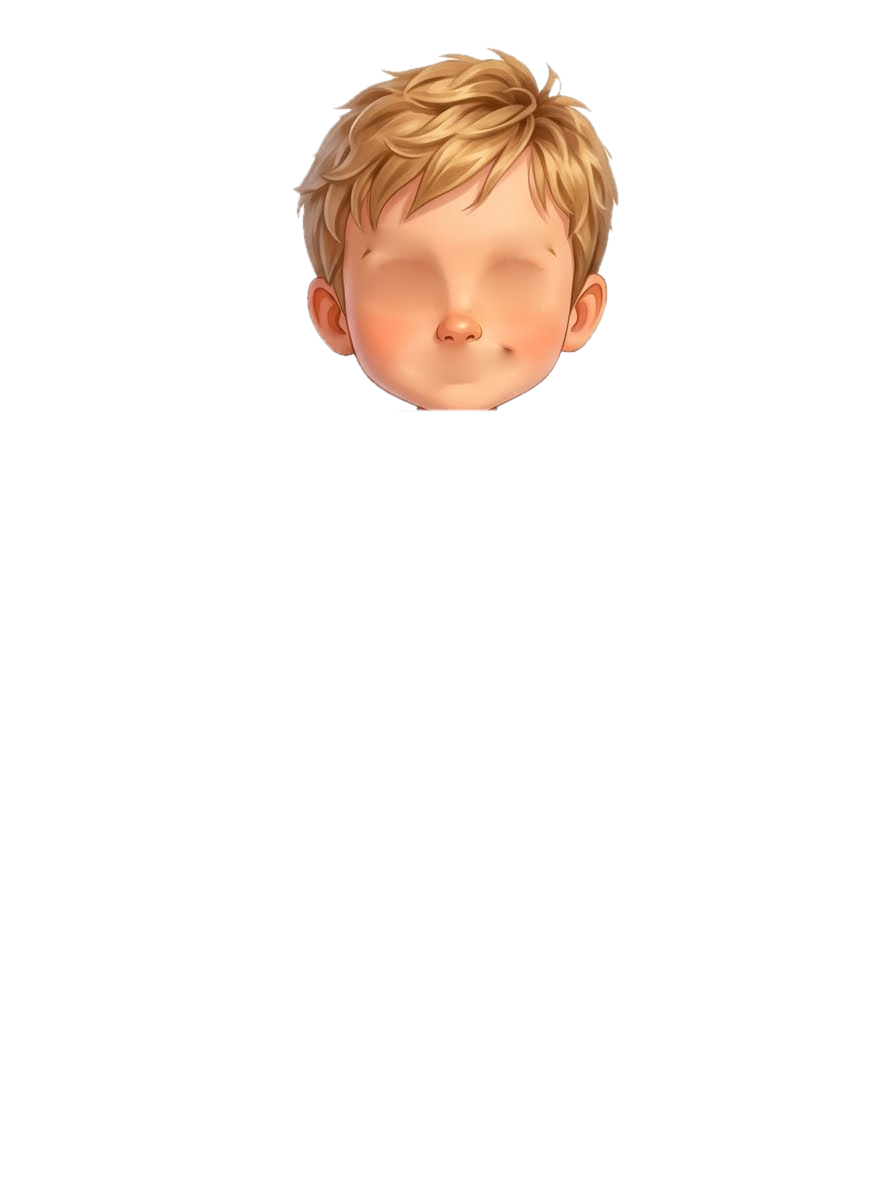
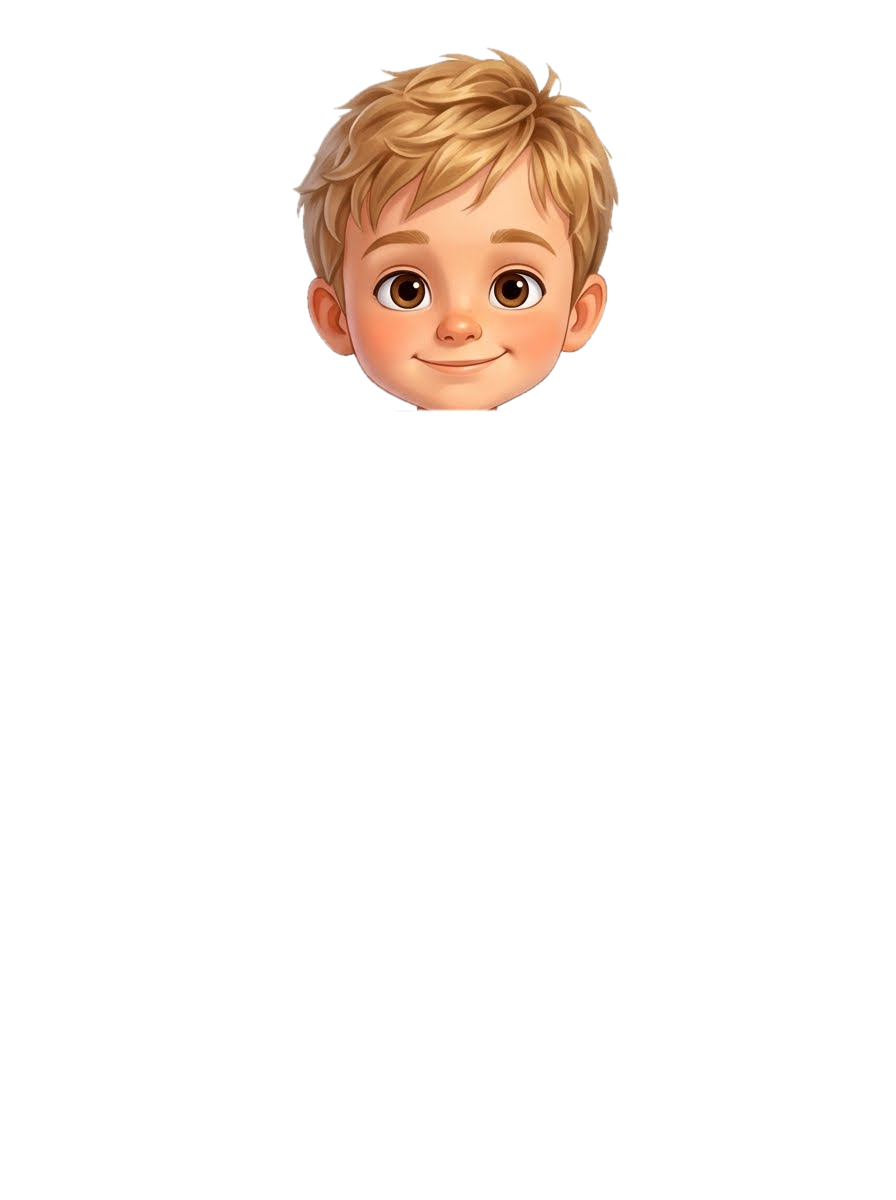
Caras: el dibujo original de E y R, sin redibujar
Chiño quiere en los vídeos exactamente las caras de sus ilustraciones.
head.png conserva la cara tal cual; prepare_characters.py saca del propio
dibujo dos capas pequeñas: blink.png (ojos cerrados) y jaw.png (lo que hay
bajo el labio, que baja al hablar sobre el interior de la boca). Fuera los
ojos, cejas y boca vectoriales. El cuerpo empieza 5 px por debajo de la
cabeza para que no se vea la costura del cuello al moverla.

Claude-Session: https://claude.ai/code/session_0193hWfzVzPtkdWeitjtRJrp

Changed region(s): [[0.4062, 0.185, 0.625, 0.3083]]

diff --git a/src/puppets.js b/src/puppets.js
@@ -11,8 +11,8 @@
   const f1 = v => (+v).toFixed(1);
 
   // ---------- expressions (docs/biblia-personajes.md §4) ----------
-  // brows: [left, right] { up: px raised, tilt: inner end up (+) / down (-) }, lids: upper lid cover 0..1,
-  // mouth: { w: width factor, curve: smile (+) / frown (-), open 0..1, round 0..1 (an "o"), asym: one corner up }
+  // The scripts' vocabulary of faces. The faces themselves are the drawing, so of these values only mouth.open is
+  // used (a surprised face keeps the mouth a little open); the rest is kept for when the drawn faces get variants.
   const B = (up = 0, tilt = 0) => ({ up, tilt });
   const EXPR = {
     neutral: { brows: [B(), B()], lids: [0.12, 0.12], mouth: { w: 0.62, curve: 0.35 } },
@@ -34,94 +34,6 @@
   };
   const lerp = (a, b, k) => a + (b - a) * k;
 
-  function eyes(rig, st, id) {
-    const ex = EXPR[st.face] || EXPR.neutral;
-    const look = st.look || ex.look || [0, 0];
-    const blink = st.blink || 0;
-    let out = '';
-    rig.eyes.forEach((e, i) => {
-      const { x, y, w, h } = e;
-      const top = `M ${f1(x - w / 2)} ${f1(y + h * 0.06)} C ${f1(x - w * 0.36)} ${f1(y - h * 0.66)} ${f1(x + w * 0.36)} ${f1(y - h * 0.66)} ${f1(x + w / 2)} ${f1(y + h * 0.02)}`;
-      const shape = `${top} C ${f1(x + w * 0.34)} ${f1(y + h * 0.62)} ${f1(x - w * 0.34)} ${f1(y + h * 0.62)} ${f1(x - w / 2)} ${f1(y + h * 0.06)} Z`;
-      const ir = h * 0.5, pr = ir * 0.5 * (st.pupil ?? ex.pupil ?? 1);
-      const ix = x + look[0] * w * 0.2, iy = y + h * 0.05 + look[1] * h * 0.14;
-      const lid = Math.min(1, Math.max(ex.lids[i] ?? 0, st.lid ?? 0, blink));
-      const ly = y - h * 0.58 + lid * h * 1.18;           // lower edge of the upper lid
-      const cid = `${id}eye${i}`;
-      out += `<clipPath id="${cid}"><path d="${shape}"/></clipPath>
-        <path d="${shape}" fill="#FFFDF8"/>
-        <g clip-path="url(#${cid})">
-          <ellipse cx="${f1(x)}" cy="${f1(y - h * 0.34)}" rx="${f1(w * 0.6)}" ry="${f1(h * 0.3)}" fill="#E9D6CC" opacity="0.7"/>
-          <circle cx="${f1(ix)}" cy="${f1(iy)}" r="${f1(ir)}" fill="url(#${id}iris)"/>
-          <circle cx="${f1(ix)}" cy="${f1(iy)}" r="${f1(ir)}" fill="none" stroke="${rig.iris[0]}" stroke-width="2.2"/>
-          <circle cx="${f1(ix)}" cy="${f1(iy)}" r="${f1(pr)}" fill="#120A06"/>
-          <circle cx="${f1(ix + ir * 0.32)}" cy="${f1(iy - ir * 0.36)}" r="${f1(ir * 0.27)}" fill="#fff"/>
-          <circle cx="${f1(ix - ir * 0.34)}" cy="${f1(iy + ir * 0.34)}" r="${f1(ir * 0.11)}" fill="#fff" opacity="0.85"/>
-          ${lid > 0.01 ? `<path d="M ${f1(x - w)} ${f1(y - h * 1.2)} H ${f1(x + w)} V ${f1(ly)} Q ${f1(x)} ${f1(ly + h * 0.22 * (1 - lid * 0.6))} ${f1(x - w)} ${f1(ly)} Z" fill="${rig.lid || rig.skin}"/>` : ''}
-        </g>`;
-      // lash line: along the lid edge, or the top of the eye when the lid is up
-      // the ends stay on the eye corners, so a closed eye reads as a soft arc, not a bar
-      const le = Math.min(Math.max(ly, y - h * 0.3), y + h * 0.05);
-      const lm = Math.min(Math.max(ly, y - h * 0.4) + h * 0.22 * (1 - lid * 0.6), y + h * 0.3);
-      const lash = lid > 0.16
-        ? `M ${f1(x - w / 2 - 2)} ${f1(le)} Q ${f1(x)} ${f1(2 * lm - le)} ${f1(x + w / 2 + 3)} ${f1(le)}`
-        : top;
-      const flick = i === 0 ? `M ${f1(x - w / 2)} ${f1(y + h * 0.02)} l -7 -6` : `M ${f1(x + w / 2)} ${f1(y)} l 7 -6`;
-      out += `<path d="${lash}" fill="none" stroke="#2A1810" stroke-width="5" stroke-linecap="round"/>
-        <path d="${flick}" fill="none" stroke="#2A1810" stroke-width="4" stroke-linecap="round"/>
-        <path d="M ${f1(x - w * 0.4)} ${f1(y + h * 0.34)} Q ${f1(x)} ${f1(y + h * 0.58)} ${f1(x + w * 0.4)} ${f1(y + h * 0.34)}" fill="none" stroke="#B07A5E" stroke-width="1.8" opacity="0.6"/>`;
-    });
-    return out;
-  }
-
-  function brows(rig, st) {
-    const ex = EXPR[st.face] || EXPR.neutral;
-    return rig.brows.map((b, i) => {
-      const d = i === 0 ? 1 : -1;                 // left brow: inner end to the right
-      const p = ex.brows[i] || B();
-      const up = p.up + (st.browUp ?? 0), t = p.tilt;
-      const ix = b.x + d * b.w / 2, ox = b.x - d * b.w / 2;
-      const iy = b.y - up - t * 1.4, oy = b.y - up + t * 0.6 + 3;
-      const my = b.y - up - 8;
-      const th = 10;
-      return `<path d="M ${f1(ox)} ${f1(oy)} Q ${f1(b.x)} ${f1(my - th / 2)} ${f1(ix)} ${f1(iy)} Q ${f1(b.x)} ${f1(my + th)} ${f1(ox)} ${f1(oy)} Z" fill="${rig.brow}" stroke="${rig.brow}" stroke-width="3.5" stroke-linejoin="round"/>`;
-    }).join('');
-  }
-
-  function mouth(rig, st, id) {
-    const ex = EXPR[st.face] || EXPR.neutral;
-    const m = Object.assign({ w: 0.6, curve: 0.3, open: 0, round: 0, asym: 0 }, ex.mouth);
-    const talk = st.talk || 0;
-    // talking opens the mouth from its resting shape
-    const open = Math.min(1, m.open + talk * (0.55 - m.open * 0.3));
-    const W = rig.mouth.w, cx = rig.mouth.x, cy = rig.mouth.y;
-    const round = Math.max(m.round, talk * 0.25);
-    const hw = W / 2 * lerp(m.w, 0.34, round * 0.8) * (1 - talk * 0.08);
-    const cyL = -m.curve * W * 0.1 - m.asym * W * 0.06, cyR = -m.curve * W * 0.1 + m.asym * W * 0.06;
-    const midClosed = m.curve * W * 0.1;
-    if (open < 0.06) {
-      return `<path d="M ${f1(cx - hw)} ${f1(cy + cyL)} Q ${f1(cx)} ${f1(cy + midClosed * 1.4)} ${f1(cx + hw)} ${f1(cy + cyR)}" fill="none" stroke="${rig.lip}" stroke-width="5.5" stroke-linecap="round"/>
-        ${m.curve > 0.5 ? `<path d="M ${f1(cx - hw - 5)} ${f1(cy + cyL - 3)} q 4 3 6 8 M ${f1(cx + hw + 5)} ${f1(cy + cyR - 3)} q -4 3 -6 8" fill="none" stroke="${rig.lip}" stroke-width="2.6" stroke-linecap="round" opacity="0.6"/>` : ''}`;
-    }
-    if (round > 0.5) {
-      // an "o": an oval that opens with the voice
-      const rx = W * (0.11 + open * 0.05) * (m.w / 0.4), ry = W * (0.1 + open * 0.13);
-      return `<ellipse cx="${f1(cx)}" cy="${f1(cy + ry * 0.35)}" rx="${f1(rx)}" ry="${f1(ry)}" fill="#5B1E18" stroke="${rig.lip}" stroke-width="3.6"/>
-        <ellipse cx="${f1(cx)}" cy="${f1(cy + ry * 1.0)}" rx="${f1(rx * 0.6)}" ry="${f1(ry * 0.35)}" fill="#E0736E"/>`;
-    }
-    const topY = midClosed * 0.4 - open * W * 0.04 - round * open * W * 0.12;
-    const botY = midClosed * 1.3 + open * W * (0.3 + round * 0.12);
-    const shape = `M ${f1(cx - hw)} ${f1(cy + cyL)} Q ${f1(cx)} ${f1(cy + topY * 2 - (cyL + cyR) / 2)} ${f1(cx + hw)} ${f1(cy + cyR)} Q ${f1(cx)} ${f1(cy + botY * 2 - (cyL + cyR) / 2)} ${f1(cx - hw)} ${f1(cy + cyL)} Z`;
-    const cid = `${id}mouth`;
-    return `<clipPath id="${cid}"><path d="${shape}"/></clipPath>
-      <path d="${shape}" fill="#5B1E18"/>
-      <g clip-path="url(#${cid})">
-        <rect x="${f1(cx - hw)}" y="${f1(cy + Math.min(cyL, cyR) - W * 0.2)}" width="${f1(hw * 2)}" height="${f1(W * 0.2 + (topY > 0 ? topY : 0) + W * 0.08 * Math.min(1, open * 2) * (1 - round))}" fill="#FFFFFF"/>
-        <ellipse cx="${f1(cx)}" cy="${f1(cy + botY)}" rx="${f1(hw * 0.7)}" ry="${f1(W * 0.12)}" fill="#E0736E"/>
-      </g>
-      <path d="${shape}" fill="none" stroke="${rig.lip}" stroke-width="3.6" stroke-linejoin="round"/>`;
-  }
-
   // emotes over the head: ? ! ... bulb, drop, hearts, swirl, sparkle
   function emote(kind, k, x, y) {
     if (!kind || k <= 0) return '';
@@ -140,6 +52,22 @@
   }
 
   // a kid: st = { who: 'e'|'r', x, y (floor), s, face, look, blink, talk, headR, headX, headY, lean, squash, flip, emote, emoteK, o }
+  // The face is Chiño's drawing, untouched (docs/biblia-personajes.md). Only two things move, both made from the
+  // drawing itself by tools/prepare_characters.py: the eyes close (blink.png) and, while speaking, the part below
+  // the lip line slides down a few pixels (jaw.png) over the inside of the mouth.
+  function face(rig, img, st) {
+    const ex = EXPR[st.face] || EXPR.neutral;
+    const j = rig.jaw, talk = Math.max(0, Math.min(1, Math.max(st.talk || 0, (ex.mouth?.open || 0) * 0.6)));
+    const d = talk * j.d;
+    const mouth = d > 0.4
+      ? `<path d="M ${f1(j.ox - j.ow)} ${j.y - 1} Q ${j.ox} ${f1(j.y - 2)} ${f1(j.ox + j.ow)} ${j.y - 1} Q ${j.ox} ${f1(j.y + d * 2.2)} ${f1(j.ox - j.ow)} ${j.y - 1} Z" fill="${j.inside}"/>
+         <ellipse cx="${j.ox}" cy="${f1(j.y + d * 0.9)}" rx="${f1(j.ow * 0.45)}" ry="${f1(d * 0.35)}" fill="#B4504A" opacity="0.8"/>
+         <image href="${img.jaw}" x="0" y="${f1(d)}" width="${rig.w}" height="${rig.h}"/>`
+      : '';
+    const shut = Math.max(st.blink || 0, st.lid || 0) > 0.5;
+    return mouth + (shut ? `<image href="${img.blink}" x="0" y="0" width="${rig.w}" height="${rig.h}"/>` : '');
+  }
+
   function kid(st) {
     const rig = RIG[st.who], img = IMG[st.who];
     const id = `k${st.who}`;
@@ -148,14 +76,13 @@
     const sh = `<ellipse cx="${rig.center}" cy="${rig.feet + 4}" rx="${f1(200 * (1 - (st.jump ?? 0) * 0.002))}" ry="26" fill="url(#kshadow)"/>`;
     const head = `<g transform="translate(${f1(st.headX ?? 0)} ${f1(st.headY ?? 0)}) rotate(${f1(st.headR ?? 0)} ${px} ${py})">
         <image href="${img.head}" x="0" y="0" width="${rig.w}" height="${rig.h}"/>
-        ${brows(rig, st)}${eyes(rig, st, id)}${mouth(rig, st, id)}
+        ${face(rig, img, st)}
         ${st.blush ? `<g opacity="${f1(st.blush)}"><ellipse cx="${rig.eyes[0].x - 10}" cy="${rig.mouth.y - 22}" rx="34" ry="18" fill="#FF6B6B" opacity="0.35"/><ellipse cx="${rig.eyes[1].x + 10}" cy="${rig.mouth.y - 22}" rx="34" ry="18" fill="#FF6B6B" opacity="0.35"/></g>` : ''}
       </g>`;
-    const defs = `<defs><radialGradient id="${id}iris" cx="50%" cy="58%" r="55%"><stop offset="0" stop-color="${rig.iris[2]}"/><stop offset="0.55" stop-color="${rig.iris[1]}"/><stop offset="1" stop-color="${rig.iris[0]}"/></radialGradient></defs>`;
     const em = emote(st.emote, st.emoteK ?? 1, rig.center + (st.who === 'e' ? 190 : -190), rig.bbox[1] + 40);
     const flip = st.flip ? -1 : 1;
     return `<g transform="translate(${f1(st.x)} ${f1(st.y)}) rotate(${f1(st.lean ?? 0)}) scale(${f1(s * flip / Math.sqrt(sq))} ${f1(s * sq)}) translate(${-rig.center} ${-rig.feet})" opacity="${st.o ?? 1}">
-      ${defs}${sh}<image href="${img.body}" x="0" y="0" width="${rig.w}" height="${rig.h}"/>${head}${em}</g>`;
+      ${sh}<image href="${img.body}" x="0" y="0" width="${rig.w}" height="${rig.h}"/>${head}${em}</g>`;
   }
 
   // ---------- icons for the insert cards (centered at 0,0, about 200 px) ----------

diff --git a/tools/prepare_characters.py b/tools/prepare_characters.py
@@ -5,8 +5,11 @@ Per character:
   - cuts the white background out (flood fill from the borders, so white shoes and teeth stay),
   - removes the brand-like logo of R's sneakers (originality rule of docs/biblia-personajes.md),
   - splits head / body at the chin so the head can turn, nod and tilt over the hood,
-  - paints the eyes, the mouth and the eyebrows out of the head (vertical interpolation of the skin around them):
-    src/puppets.js draws them as vectors, which is what lets the faces change expression and lip-sync.
+  - keeps the face exactly as it is in the drawing (Chiño's rule: the faces must be his illustrations), and makes
+    two small layers from the drawing itself so the face can move without redrawing it:
+      blink.png  the eyes closed: the eye area filled with the skin around it, plus a lash line,
+      jaw.png    the drawing below the lip line, which src/puppets.js slides down while the character speaks
+                 (the gap shows the inside of the mouth).
 The coordinates below were measured on the 896x1200 sources; rig.json carries them to the browser."""
 import json, os
 import numpy as np
@@ -22,7 +25,10 @@ RIGS = {
         'eyes': [{'x': 402, 'y': 321, 'w': 80, 'h': 56}, {'x': 518, 'y': 321, 'w': 78, 'h': 56}],
         'brows': [{'x': 395, 'y': 270, 'w': 62, 'tilt': -6}, {'x': 520, 'y': 268, 'w': 60, 'tilt': 6}],
         'mouth': {'x': 458, 'y': 400, 'w': 112},
-        'paint_out': [(390, 377, 527, 428), (356, 252, 434, 292), (484, 250, 558, 290), (354, 289, 450, 356), (472, 289, 566, 356)],
+        'lids': [(354, 289, 450, 356), (472, 289, 566, 356)],
+        # lip line: the top of the lower lip; the lower lip and the chin move from here. ox / ow: centre and half
+        # width of the mouth opening on that line (measured on the drawing), where the inside of the mouth shows
+        'jaw': {'x': 458, 'y': 406, 'w': 112, 'd': 8, 'ox': 456.5, 'ow': 29, 'inside': '#4A0E08'},
         'iris': ['#2B160B', '#6E3E1E', '#A8723F'], 'brow': '#7E4426', 'lip': '#7A3A2A',
     },
     'r': {
@@ -31,7 +37,8 @@ RIGS = {
         'eyes': [{'x': 405, 'y': 289, 'w': 76, 'h': 54}, {'x': 516, 'y': 289, 'w': 74, 'h': 54}],
         'brows': [{'x': 397, 'y': 240, 'w': 62, 'tilt': -4}, {'x': 522, 'y': 238, 'w': 62, 'tilt': 4}],
         'mouth': {'x': 461, 'y': 360, 'w': 96},
-        'paint_out': [(400, 344, 524, 380), (360, 226, 436, 256), (486, 224, 560, 254), (367, 262, 443, 318), (480, 262, 552, 318)],
+        'lids': [(367, 262, 443, 318), (480, 262, 552, 318)],
+        'jaw': {'x': 461, 'y': 363, 'w': 96, 'd': 7, 'ox': 454.5, 'ow': 27, 'inside': '#5A1A10'},
         'iris': ['#2E1A0C', '#734421', '#B07A45'], 'brow': '#A0642E', 'lip': '#8A4A36',
         # navy swoosh-like marks on both sneakers -> plain white leather
         'logo_boxes': [(318, 1072, 420, 1132), (470, 1072, 575, 1132)],
@@ -85,6 +92,53 @@ def paint_out(a, box, iters=1500):
     a[y0 - m:y1 + m, x0 - m:x1 + m] = sub * (1 - k) + f * k
 
 
+def blink_layer(a, rig):
+    """Closed eyes, from the drawing: each eye filled with the skin around it, and a soft lash arc where the lids meet."""
+    H, W = a.shape[:2]
+    f = a.copy()
+    lay = np.zeros((H, W, 4))
+    for box in rig['lids']:
+        paint_out(f, box)
+    m = Image.new('L', (W, H))
+    d = ImageDraw.Draw(m)
+    for (x0, y0, x1, y1) in rig['lids']:
+        d.ellipse((x0 - 4, y0 - 4, x1 + 4, y1 + 4), fill=255)
+    m = np.asarray(m.filter(ImageFilter.GaussianBlur(2.5))).astype(float)
+    lay[..., :3] = f
+    lay[..., 3] = m
+    img = Image.fromarray(lay.astype(np.uint8), 'RGBA')
+    # lash lines, drawn at 4x and scaled down so they are as smooth as the drawing
+    S = 4
+    big = Image.new('RGBA', (W * S, H * S))
+    g = ImageDraw.Draw(big)
+    for i, e in enumerate(rig['eyes']):
+        x, y, w, h = e['x'], e['y'], e['w'], e['h']
+        pts = []
+        for k in range(41):
+            t = k / 40
+            px = x - w / 2 + w * t
+            py = y + h * 0.05 + h * 0.24 * (1 - (2 * t - 1) ** 2)
+            pts.append((px * S, py * S))
+        g.line(pts, fill=(52, 28, 18, 255), width=int(4.5 * S), joint='curve')
+        # the little flick at the outer corner, like in the drawing
+        ox, sgn = (x - w / 2, -1) if i == 0 else (x + w / 2, 1)
+        g.line([(ox * S, (y + h * 0.05) * S), ((ox + sgn * 8) * S, (y - h * 0.08) * S)], fill=(52, 28, 18, 255), width=int(3.5 * S))
+    lash = big.resize((W, H), Image.LANCZOS)
+    return Image.alpha_composite(img, lash)
+
+
+def jaw_layer(a, alpha, rig):
+    """The drawing just below the lip line (lower lip and chin around the mouth), feathered at the sides and at the
+    bottom. Sliding it down a few pixels opens the mouth the drawing already has."""
+    H, W = a.shape[:2]
+    j = rig['jaw']
+    yy, xx = np.mgrid[0:H, 0:W]
+    dx = np.abs(xx - j['x']) / (j['w'] * 0.8)
+    below = (yy - j['y']) / 28.0       # stays well above the chin, so the jaw line never moves
+    m = np.clip((1 - dx) / 0.3, 0, 1) * np.clip((1 - below) / 0.5, 0, 1) * (yy >= j['y'])
+    return Image.fromarray(np.dstack([a, (m * alpha).clip(0, 255)]).astype(np.uint8), 'RGBA')
+
+
 def main():
     for cid, rig in RIGS.items():
         img = Image.open(os.path.join(SRC, rig['src'])).convert('RGB')
@@ -104,9 +158,7 @@ def main():
         # soften the cut line between head and body (2 px)
         hm = Image.new('L', (W, H)); hm.putdata(list((head * 255).astype(np.uint8).ravel()))
         hm = np.asarray(hm.filter(ImageFilter.GaussianBlur(1.0))) / 255.0
-        head_rgb = a.copy()
-        for box in rig['paint_out']:
-            paint_out(head_rgb, box)
+        head_rgb = a.copy()          # the face as drawn
         out = os.path.join(ROOT, 'assets/characters', cid)
         os.makedirs(out, exist_ok=True)
         ys, xs = np.where(alpha > 8)
@@ -115,7 +167,10 @@ def main():
         ha = (alpha * hm).clip(0, 255)
         Image.fromarray(np.dstack([head_rgb, ha]).astype(np.uint8), 'RGBA').save(os.path.join(out, 'head.png'), optimize=True)
         # body layer: everything else, plus a patch of neck skin that shows when the head turns
-        ba = (alpha * (1 - hm)).clip(0, 255)
+        # the body starts 5 px above the cut, under the head: no see-through seam when the head moves
+        bm = Image.new('L', (W, H)); bm.putdata(list((((yy < rig['chin'] - 5) & (alpha > 0)) * 255).astype(np.uint8).ravel()))
+        bm = np.asarray(bm.filter(ImageFilter.GaussianBlur(1.0))) / 255.0
+        ba = (alpha * (1 - bm)).clip(0, 255)
         body = Image.fromarray(np.dstack([a, ba]).astype(np.uint8), 'RGBA')
         px, py = rig['pivot']
         skin = tuple(int(v) for v in a[py - 12, px])
@@ -126,7 +181,11 @@ def main():
         neck = Image.new('RGBA', (W, H), skin + (255,)); neck.putalpha(nmi)
         body = Image.alpha_composite(neck, body)
         body.save(os.path.join(out, 'body.png'), optimize=True)
-        meta = {k: v for k, v in rig.items() if k not in ('src', 'paint_out', 'logo_boxes')}
+        for name, layer in (('blink', blink_layer(a, rig)), ('jaw', jaw_layer(a, alpha * hm, rig))):
+            la = np.asarray(layer).copy()
+            la[la[..., 3] == 0] = 0                      # empty pixels compress to nothing
+            Image.fromarray(la, 'RGBA').save(os.path.join(out, f'{name}.png'), optimize=True)
+        meta = {k: v for k, v in rig.items() if k not in ('src', 'lids', 'logo_boxes')}
         lid = np.array(skin) * 0.8 + np.array([232, 150, 112]) * 0.2   # lids: the skin, a touch warmer
         meta.update({'w': W, 'h': H, 'bbox': bbox, 'skin': '#%02X%02X%02X' % skin, 'lid': '#%02X%02X%02X' % tuple(int(v) for v in lid)})
         json.dump(meta, open(os.path.join(out, 'rig.json'), 'w'), indent=1)

diff --git a/docs/biblia-personajes.md b/docs/biblia-personajes.md
@@ -4,6 +4,8 @@ Dos niños intentan entender el mundo de los adultos. No son más listos que los
 
 Los diseños son los de las hojas de Chiño (`assets/characters/source/`). `tools/prepare_characters.py` los convierte en las capas que se animan (`assets/characters/e|r/`).
 
+**Las caras son el dibujo, tal cual.** No se redibujan ojos, cejas ni boca. Solo se mueven dos cosas, hechas con trozos del propio dibujo: los ojos se cierran al parpadear (`blink.png`) y, al hablar, la parte bajo el labio baja unos píxeles y deja ver el interior de la boca (`jaw.png`).
+
 ## 1. Los dos
 
 | | **E** | **R** |
@@ -52,7 +54,7 @@ Una pausa es un gesto, no relleno: máximo 2 s cada una y 3,5 s por episodio.
 
 ## 4. Expresiones, gestos y emotes
 
-**Caras** (`src/puppets.js`, `EXPR`): `neutral`, `feliz`, `sonrisa`, `convencido`, `curioso`, `sorprendido`, `asombrado`, `serio`, `dudoso`, `pensativo`, `confundido`, `resignado`, `triste`, `picaro`, `enfadado`, `ilusionado`. Cada una mueve cejas (altura e inclinación), párpados y boca; la boca se abre con la voz (lip-sync) desde la forma de cada expresión.
+**Caras** (`src/puppets.js`, `EXPR`): `neutral`, `feliz`, `sonrisa`, `convencido`, `curioso`, `sorprendido`, `asombrado`, `serio`, `dudoso`, `pensativo`, `confundido`, `resignado`, `triste`, `picaro`, `enfadado`, `ilusionado`. Como la cara es el dibujo original, hoy solo cambian lo abierta que queda la boca (sorprendido, asombrado, feliz, ilusionado). Los nombres se mantienen en los guiones para cuando haya variantes dibujadas de la cara.
 
 **Gestos** (`src/director.mjs`, `GESTURES`): `salto`, `bota`, `asiente`, `niega`, `inclina`, `endereza`, `acerca`, `aparta`, `vuelve`, `encoge`. Con las manos en los bolsillos (como en las hojas), el cuerpo actúa con la cabeza, la postura y el peso.
 

diff --git a/docs/direccion.md b/docs/direccion.md
@@ -5,7 +5,7 @@
 ## Capas de cada fotograma (de atrás adelante)
 
 1. **Escenario** (`dormitorio`, `salon`, `parque`, `cocina`, `cole`, `calle`): vectorial, colores suaves y poco contraste para que los niños destaquen. Se mueve un poco menos que los personajes con la cámara (paralaje).
-2. **E y R**: las capas cuerpo / cabeza sacadas de las hojas de personaje, con ojos, cejas y boca vectoriales encima (`src/puppets.js`). E siempre a la izquierda, R a la derecha, de pie sobre el suelo y mirándose.
+2. **E y R**: las capas cuerpo / cabeza sacadas de las hojas de personaje, con la cara del dibujo original; solo se animan el parpadeo y la boca al hablar, con trozos del propio dibujo (`src/puppets.js`, `face()`). E siempre a la izquierda, R a la derecha, de pie sobre el suelo y mirándose.
 3. **Gancho**: la pregunta del episodio en una tarjeta blanca con el distintivo de la serie. Grande desde el primer fotograma; cuando termina la primera frase se encoge y queda arriba como recordatorio del tema.
 4. **Tarjetas**: un icono y una palabra o cifra ("30 AÑOS", "−2 €") que entran con un pop mientras se dice esa línea, sobre las cabezas.
 5. **Bocadillo**: los subtítulos son un bocadillo blanco bajo las caras, con la cola hacia quien habla, la palabra que se está diciendo en su color (rojo E, azul R) y su nombre.
